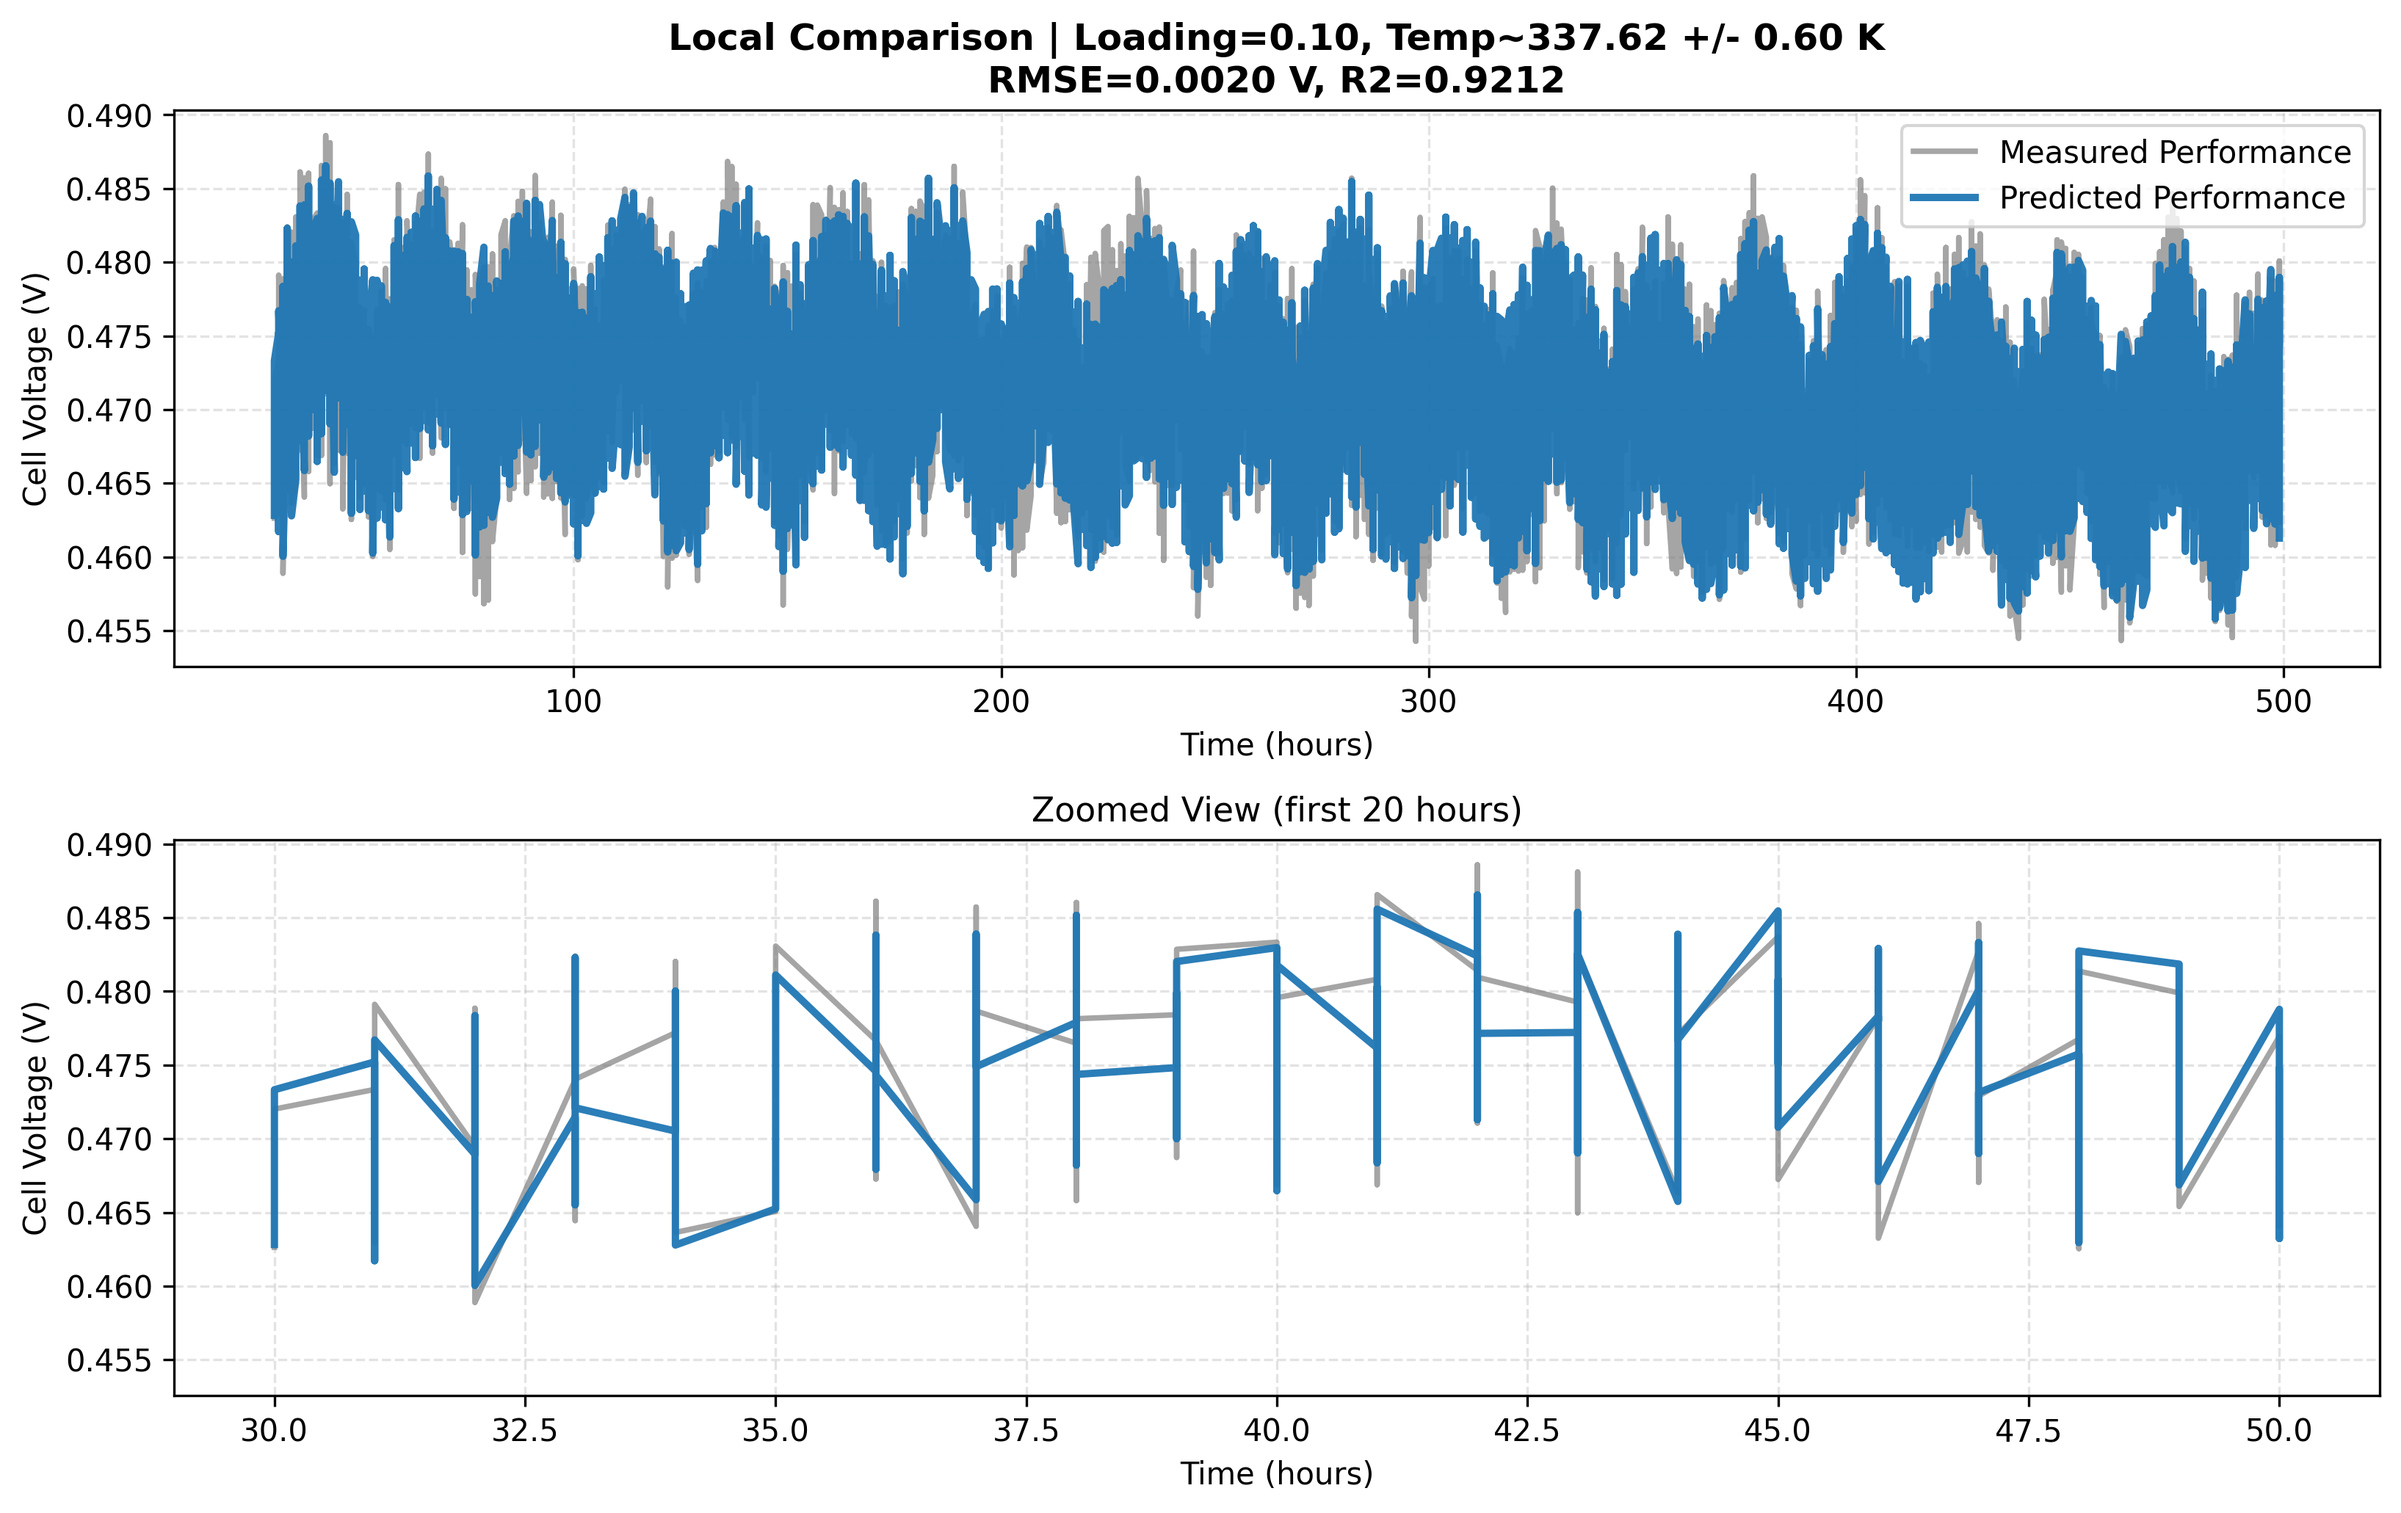
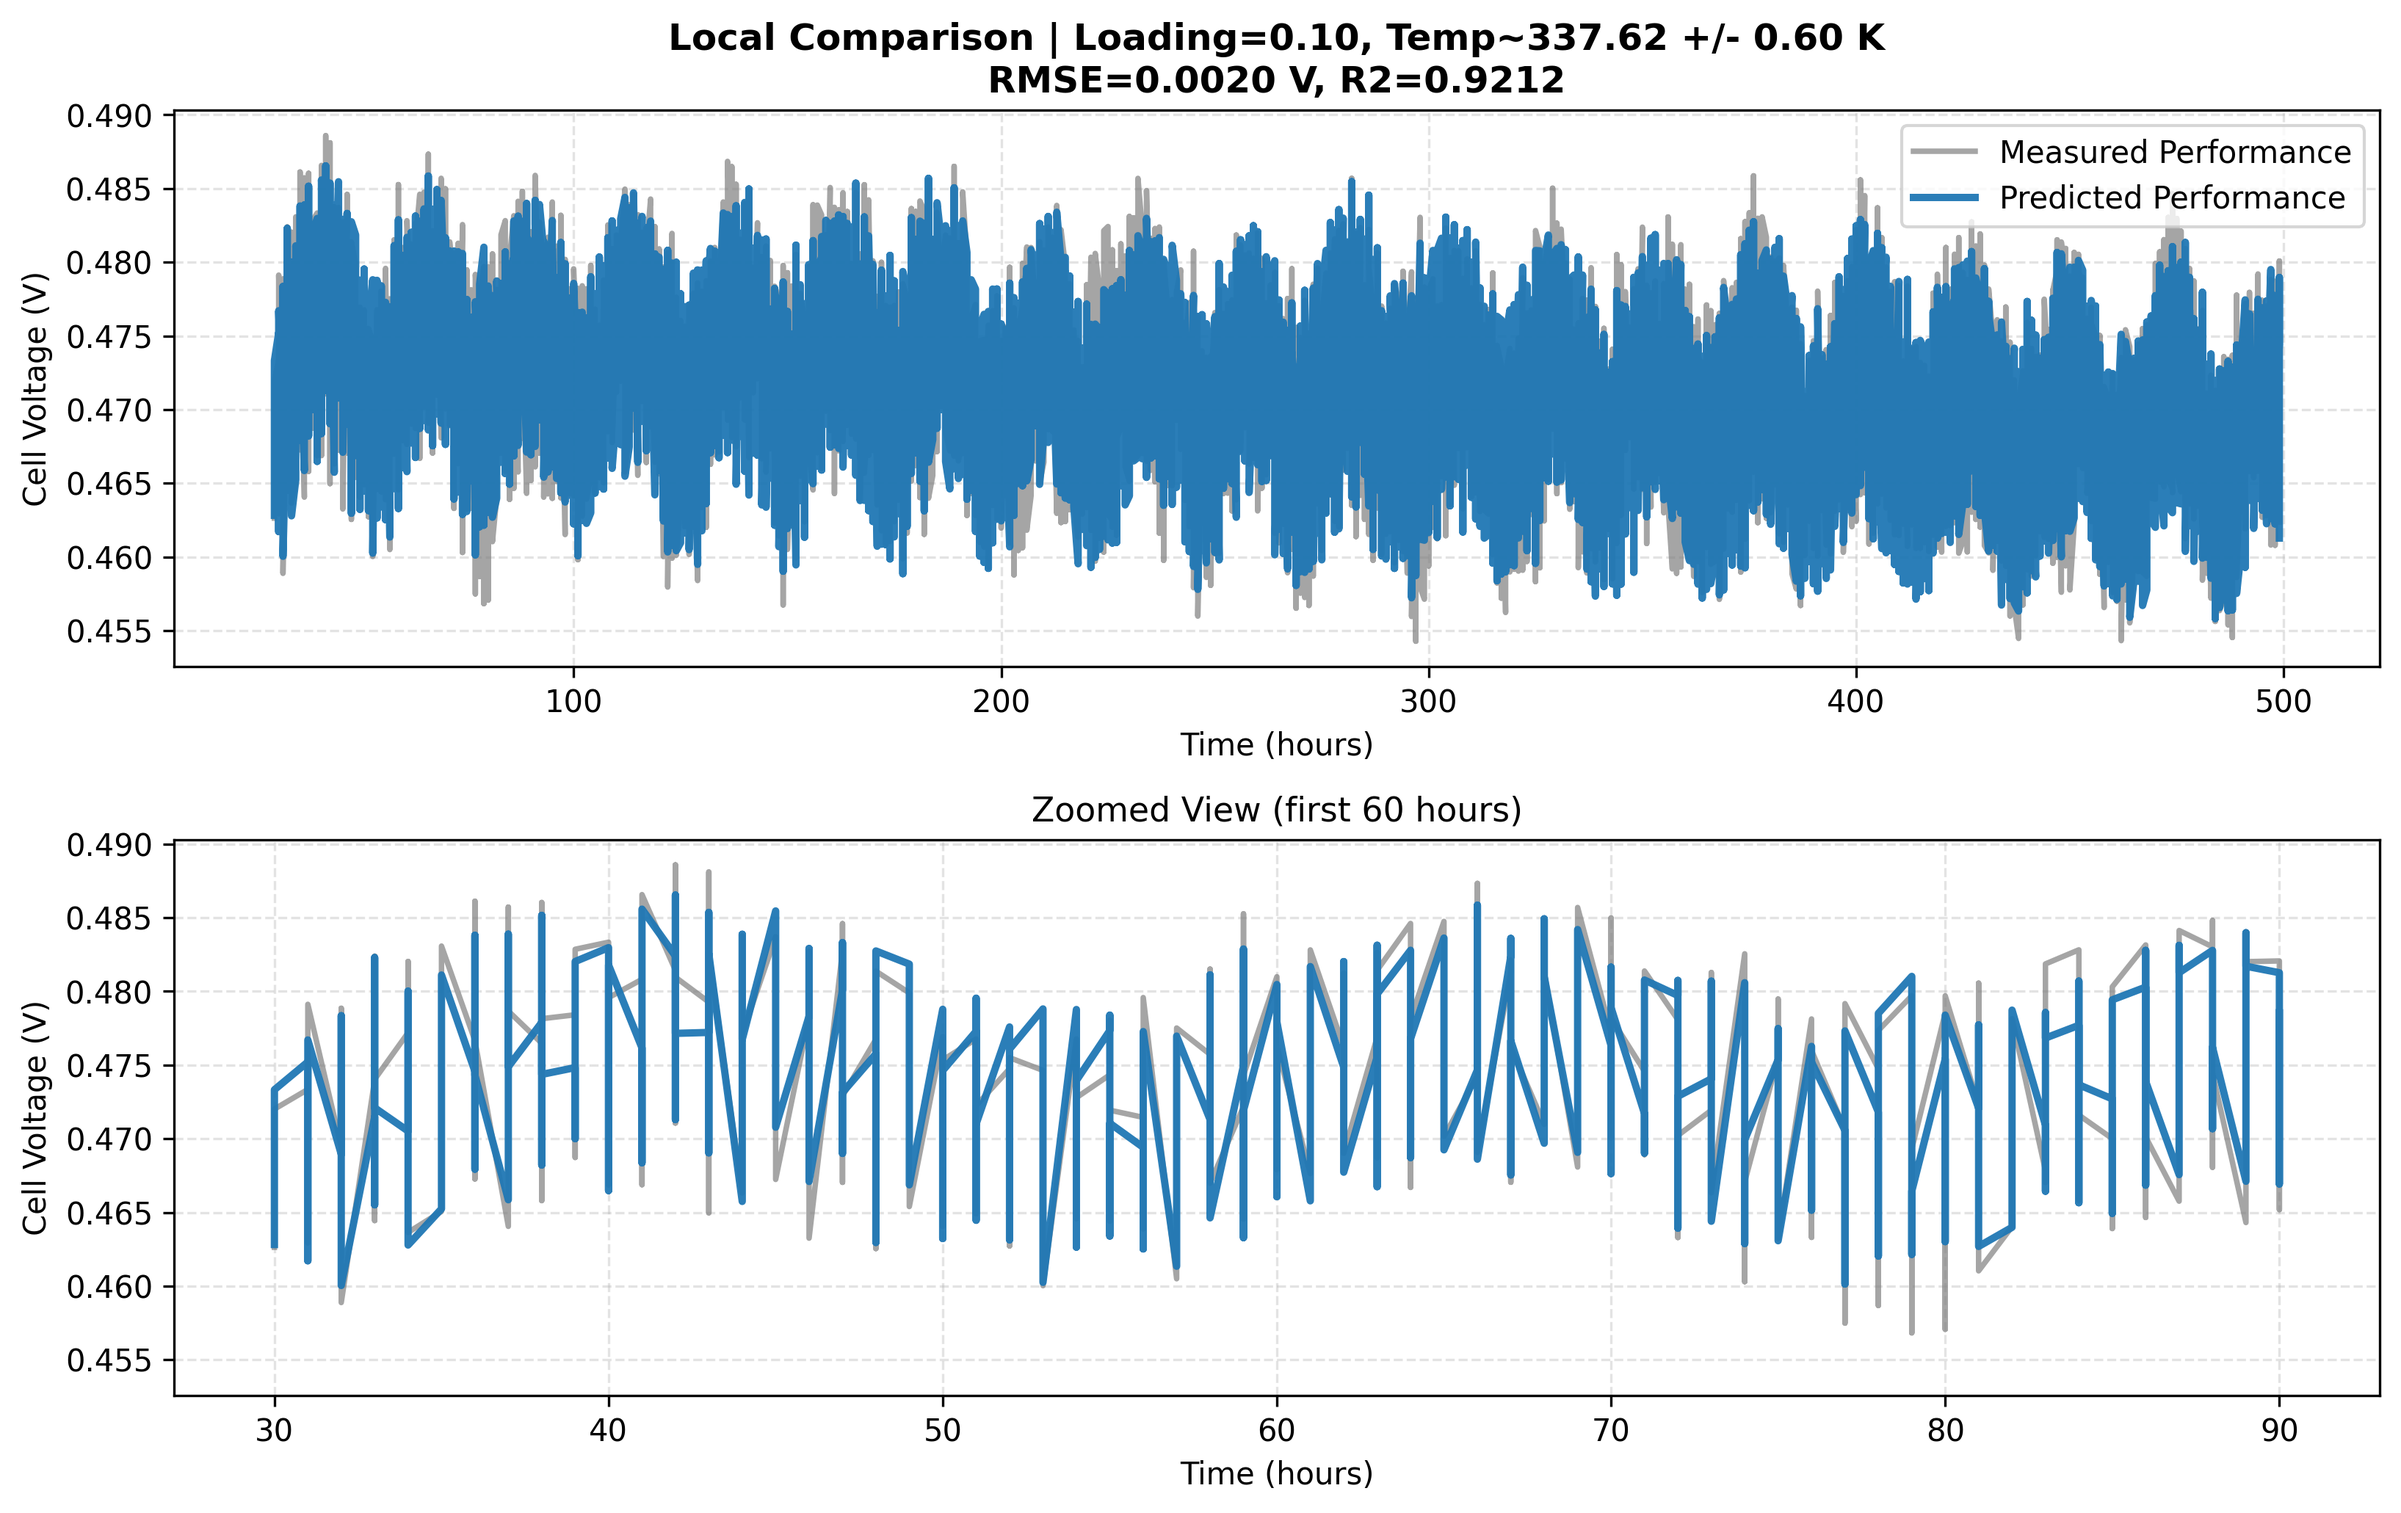
1

diff --git a/src/evaluate.py b/src/evaluate.py
@@ -392,7 +392,7 @@ def evaluate_digital_twin():
         ax_local_full.grid(True, linestyle='--', alpha=0.35)
         ax_local_full.legend(loc='best')
 
-        zoom_window_hours = 20.0
+        zoom_window_hours = 60.0
         t0 = float(local_band['Time_Hours'].min())
         t1 = float(local_band['Time_Hours'].max())
         zoom_end = min(t0 + zoom_window_hours, t1)

diff --git a/README.md b/README.md
@@ -1,28 +1,161 @@
-# **Physics-Guided Machine Learning (PGML) for Electrochemical Degradation**
+# Physics-Guided Machine Learning for Fuel-Cell Degradation
 
 [![PEMFC-PGML](https://github.com/Tianyi-Q/pemfc-degradation-pgml/actions/workflows/physics_test.yml/badge.svg)](https://github.com/Tianyi-Q/pemfc-degradation-pgml/actions/workflows/physics_test.yml)
 
-This is a hobby project and also my first time dealing with NNs. After I got frustrated with another model, I tried to have the physics baked in so the predicted curve doesn't flatline like me at 8 o'clock in the classroom. This is an automated pipeline and Physics-Informed Neural Network (PINN) architecture designed to generate, process, and model multivariable fuel cell degradation data. It is admittedly simplified and I might update this later.
+A small end-to-end pipeline that **predicts how a hydrogen fuel cell's voltage degrades over time**, using a neural network whose training is guided by electrochemical physics.
 
-**Note: in the "old" folder you can find a previous model. for the file paths to not break, take them out into the src folder and execute them.**
+> **Hobby project disclaimer** — this is my first time working with neural networks. After getting frustrated with a purely data-driven model that flatlines like my heart at 8 o'clock in the morning class, I decided to hammer physics directly into the loss function so the model can't cheat. It is simplified and I might update it later.
 
-## Current Testing Baseline (Synthetic Matrix)
+---
 
-Pending raw experimental data ingestion, the pipeline is currently validated against a synthetic baseline mirroring a 4x4 matrix over 500 hours:
+## What is this about?
 
-* **TiO2 Loadings:** 0.05, 0.1, 0.2, 0.3
-* **Relative Humidity:** 30%, 60%, 80%, 100%
+A **PEM fuel cell** (Proton-Exchange Membrane Fuel Cell) converts hydrogen and oxygen into electricity. Over hundreds of hours of operation the cell slowly **degrades** — its voltage drops because the catalyst dissolves, the membrane dries out or floods, and internal resistance rises.
 
-These are actually test cases in a previous experimental study, for more info visit [tianyi-q](https://tianyi-q.github.io/).
+Predicting *how fast* that degradation happens under different operating conditions is valuable for maintenance planning and lifetime estimation. This project does that with a **Physics-Guided Neural Network (PGNN)**: a standard neural network plus an extra training penalty that encodes a physical rule — *voltage should not recover faster than is physically possible*.
 
-## Environment Setup
+### Why "physics-guided"?
 
-I am on CUDA 12.1 and Python 3.12. Other versions might work.
+A normal neural network minimises only data error. It is free to learn patterns that violate physics, for example predicting that a degrading cell suddenly gains voltage out of nowhere. Adding a **physics loss** term (a soft constraint on the voltage derivative dV/dt) prevents that. The total training objective is:
+
+```
+Total Loss = Data Loss + λ × Physics Loss
+```
+
+where **Data Loss** measures prediction accuracy and **Physics Loss** penalises unrealistically fast voltage recovery.
+
+---
+
+## Pipeline overview
+
+The project runs as a **three-command** pipeline. You only run the scripts listed below — the helper modules (`data_loader.py`, `model.py`) are imported automatically and never need to be executed directly.
+
+| Step | Script you run         | What it does                                                                                                                                                                                                |
+| ---- | ---------------------- | ----------------------------------------------------------------------------------------------------------------------------------------------------------------------------------------------------------- |
+| 1    | `generate_matrix.py` | Creates synthetic but physically motivated fuel-cell data (Nernst voltage, activation/ohmic/concentration losses, five dynamic states, AR(1) noise) over a 4×4 condition matrix.                           |
+| 2    | `train.py`           | Trains a compact MLP (≈17 000 parameters) with SmoothL1 data loss + dV/dt physics penalty, Adam optimiser, LR scheduling, and early stopping. Saves a checkpoint with model weights and scaler statistics. |
+| 3    | `evaluate.py`        | Loads the checkpoint, runs inference on every operating segment, computes error metrics (MAE, RMSE, R²), and generates three plots + a metrics CSV.                                                        |
+
+| Helper module (imported, not run) | Role                                                                                                                                                      |
+| --------------------------------- | --------------------------------------------------------------------------------------------------------------------------------------------------------- |
+| `data_loader.py`                | Reads the CSV, normalises column names, selects features, and scales everything to zero-mean/unit-variance. Imported by `train.py` and `evaluate.py`. |
+| `model.py`                      | Defines the PGNN neural network architecture. Imported by `train.py` and `evaluate.py`.                                                               |
+
+```
+generate_matrix.py ──→ train.py ──→ evaluate.py
+       (data)          (training)     (results)
+                          ↑               ↑
+                   data_loader.py    data_loader.py
+                   model.py         model.py
+                   (imported)        (imported)
+```
+
+### Model architecture
+
+A 4-layer fully connected network: **input → 64 → 64 → 64 → 1**, with Tanh activations (chosen because they are smooth everywhere, which the physics-loss derivative computation requires).
+
+---
+
+## Current results (synthetic baseline)
+
+Because real degradation data requires hundreds of hours of lab time, the pipeline is currently validated on **synthetic data** that mimics a 4×4 experiment matrix:
+
+| Condition             | Values                  |
+| --------------------- | ----------------------- |
+| TiO2 catalyst loading | 0.05, 0.10, 0.20, 0.30  |
+| Relative humidity     | 30 %, 60 %, 80 %, 100 % |
+| Duration              | 500 hours per segment   |
+
+These conditions mirror a previous experimental study — for more info visit [tianyi-q.github.io](https://tianyi-q.github.io/).
+
+**Global metrics on the full dataset:**
+
+| MAE       | RMSE      | R²    |
+| --------- | --------- | ------ |
+| 0.00160 V | 0.00200 V | 0.9877 |
+
+---
+
+## Quick start
+
+**Requirements:** Python 3.12, CUDA 12.1 (CPU also works, just slower). Other versions may work but are untested.
 
 ```bash
-git clone [https://github.com/Tianyi-Q/pemfc-degradation-pgml.git](https://github.com/Tianyi-Q/pemfc-degradation-pgml.git)
+git clone https://github.com/Tianyi-Q/pemfc-degradation-pgml.git
 cd pemfc-degradation-pgml
 pip install -r requirements.txt
-python src/generate_matrix.py
-python src/train.py
 ```
+
+Then run the full pipeline:
+
+```bash
+python src/generate_matrix.py   # 1. create synthetic dataset
+python src/train.py             # 2. train the PGNN
+python src/evaluate.py          # 3. evaluate and generate plots
+```
+
+Outputs land in:
+
+| Artifact                 | Path                                                    |
+| ------------------------ | ------------------------------------------------------- |
+| Synthetic data CSV       | `data/raw/synthetic_matrix.csv`                       |
+| Trained model checkpoint | `models/pgnn_checkpoint.pth`                          |
+| Multi-segment plot       | `data/processed/pgnn_validation_multisegment.png`     |
+| Parity plot              | `data/processed/pgnn_validation_parity.png`           |
+| Local comparison plot    | `data/processed/pgnn_validation_local_comparison.png` |
+| Per-segment metrics CSV  | `data/processed/pgnn_validation_metrics.csv`          |
+
+---
+
+## Project structure
+
+```
+pemfc-degradation-pgml/
+├── src/
+│   ├── generate_matrix.py    # Synthetic data generator (step 1)
+│   ├── data_loader.py        # Dataset class & schema normalisation (imported by train/evaluate)
+│   ├── model.py              # PGNN architecture definition (imported by train/evaluate)
+│   ├── train.py              # Training loop with physics loss (step 2)
+│   └── evaluate.py           # Evaluation, metrics & plots (step 3)
+├── old/                      # Earlier model version (see note below)
+├── data/
+│   ├── raw/                  # Generated synthetic CSV + plot
+│   └── processed/            # Evaluation outputs
+├── models/                   # Saved weights & checkpoint
+├── requirements.txt
+└── README.md
+```
+
+> **Note:** the `old/` folder contains a previous (simpler) version of the model. To run those scripts, copy them into `src/` so the relative file paths work.
+
+---
+
+## What the physics model simulates
+
+The synthetic data generator (`generate_matrix.py`) is not a random-number machine — it implements simplified but physically grounded electrochemistry:
+
+- **Nernst equation** — thermodynamic open-circuit voltage as a function of temperature and gas pressures.
+- **Activation loss** — Tafel kinetics for the sluggish oxygen reduction reaction.
+- **Ohmic loss** — proton conductivity through the Nafion membrane (depends on hydration and temperature).
+- **Concentration loss** — mass-transport limitation as current approaches limiting current (worsened by flooding).
+- **Five dynamic states** evolved over time: membrane hydration, flooding, cell temperature, catalyst surface-area decay, and correlated sensor noise.
+
+All coefficients are hand-tuned placeholders. With real experimental data, you would calibrate them to match measured polarisation curves and durability trends.
+
+---
+
+## Dependencies
+
+| Package      | Version     | Role                                     |
+| ------------ | ----------- | ---------------------------------------- |
+| PyTorch      | 2.4.1+cu121 | Neural network training & autograd       |
+| pandas       | 2.2.3       | CSV reading & data manipulation          |
+| NumPy        | 2.2.6       | Numerical computation                    |
+| scikit-learn | 1.5.2       | StandardScaler for feature normalisation |
+| matplotlib   | 3.8.4       | Plot generation                          |
+
+---
+
+## CI
+
+A GitHub Actions workflow (`.github/workflows/physics_test.yml`) runs the full pipeline on every push/PR to `main` — generate data, train, evaluate — to make sure nothing is broken.
